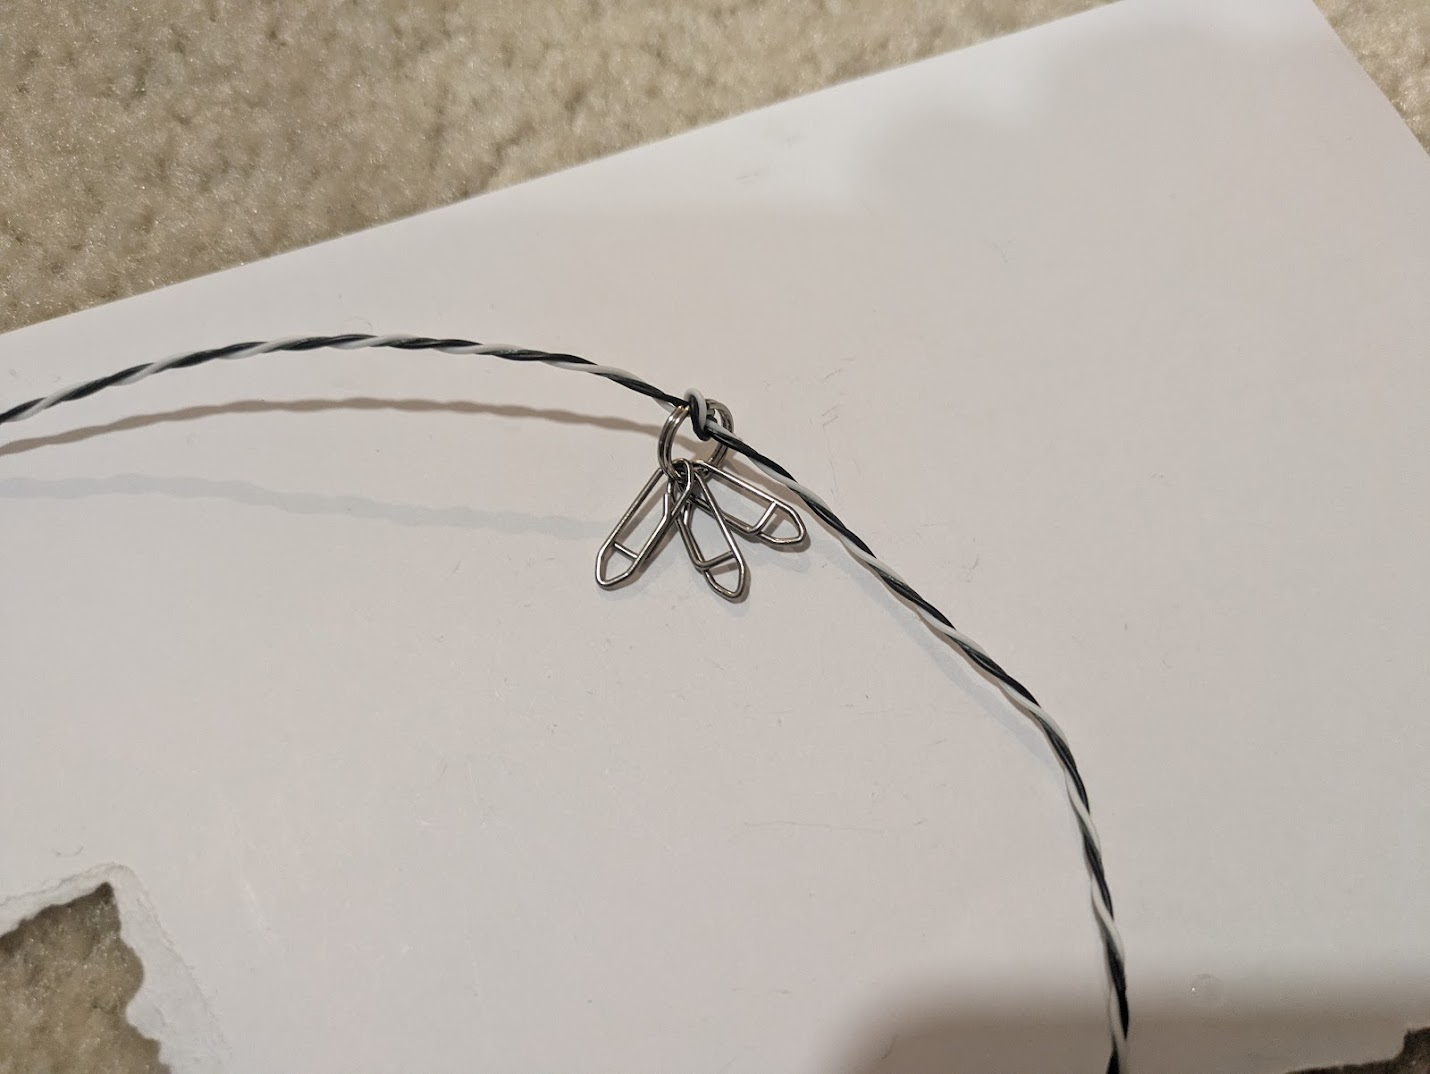
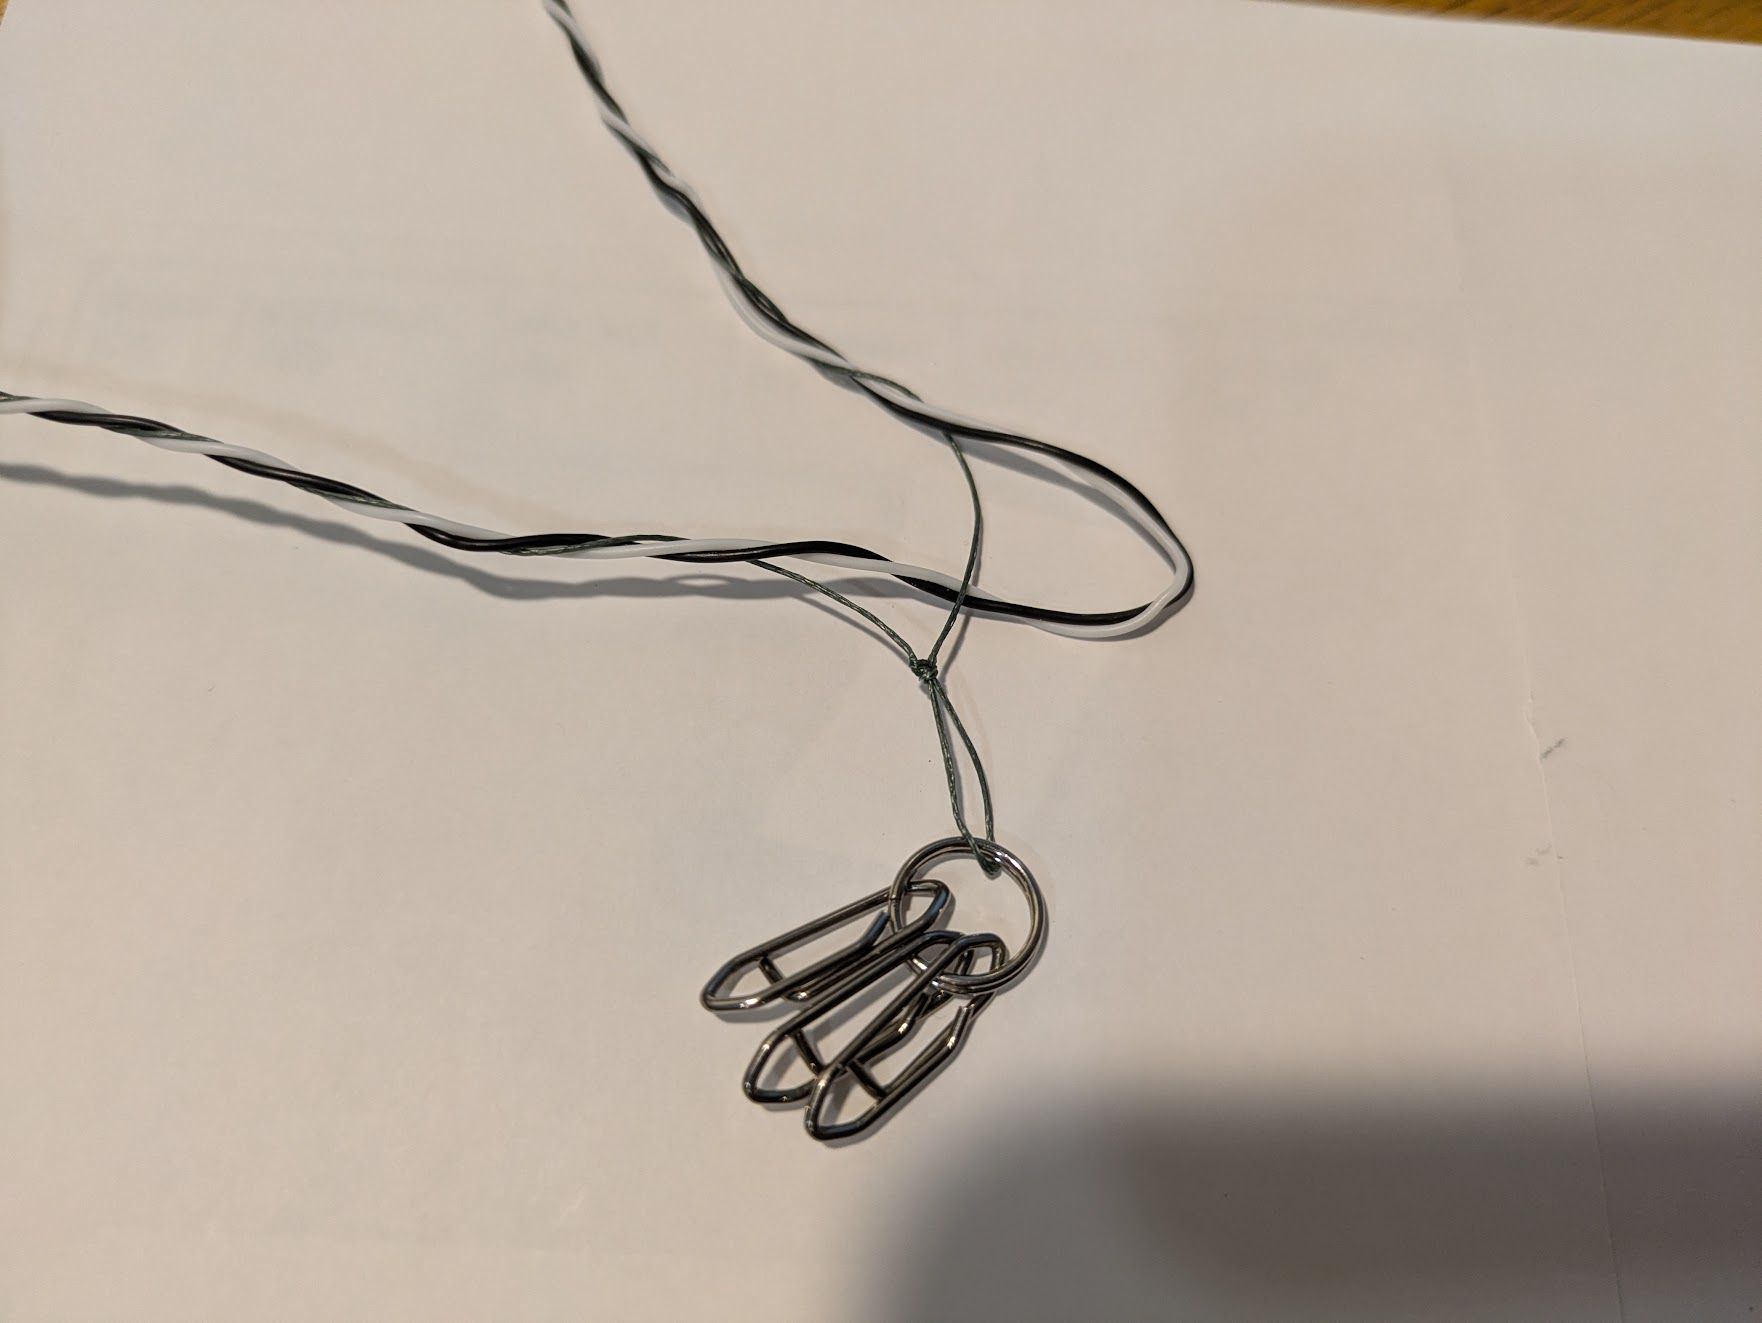
power line knots

diff --git a/docs/power_line_build_guide.md b/docs/power_line_build_guide.md
@@ -59,9 +59,13 @@ TODO: add image.
 You were supplied with a custom made counter-twisted wire consisting of two 30awg conductors and some 40lb test braided fishing line.
 Lay it out flat on the floor and gently shake loose any twists or kinks.
 
-Thread 2 meters of your power wire through the 10mm keyring. This should leave 8 meters on the other end. Thread the short end through the keyring again, and gently knot it so the keyring is secured at the 2 meter mark.
+Measure 2 meters from one end and mark the point. Pull apart the fishing line from the wires at this point to make about 10cm of slack.
+Tie an [alpine butterfly](https://www.animatedknots.com/alpine-butterfly-loop-knot) in the fishing line at this location. You can use the plastic screwdriver as an aid when tying the knot. This is a difficult knot, I suggest practicing first on some scrap fishing line. If you haven't bought the cross locking tweezers yet, surely this will change your mind.
 
 ![](images/gantry/image6.png){ loading=lazy, width=45% }
+
+After you pull the knot tight, You should have a small immobile loop in the fishing line and slightly slack wires. Attach the keyring to this loop. This way, the fishing line can bear all the weight, and the wires not be stressed.
+
 ![](images/gantry/image7.png){ loading=lazy, width=45% }
 
 Thread the 2m end of power line down through the center hole of the gantry. Pull it through till the keyring gets stopped in the cone, and then thread the 8m end out through one of the side holes.

diff --git a/docs/anchor_build_guide.md b/docs/anchor_build_guide.md
@@ -11,7 +11,7 @@ First you should have printed the parts according to the [print guide](print_gui
 
  - [Mini screwdriver with a bit set](https://www.amazon.com/dp/B01KB02F9C)  
  - Soldering station
- - [Cross locking tweezers](https://www.amazon.com/dp/B001BU9MLG)  
+ - [Cross locking tweezers](https://www.amazon.com/dp/B001BU9MLG) *Mandatory* you'll jump off a bridge without them.  
  - [Mini side cutters](https://www.amazon.com/dp/B00FZPDG1K)  
  - Super glue ([loctite super glue “professional liquid”](https://www.amazon.com/dp/B07VL6MP94?ref_=ppx_hzsearch_conn_dt_b_fed_asin_title_1&th=1) recommended)
 
@@ -195,5 +195,3 @@ Assembly is complete\!
 Plug in your unit to 24v power and confirm both the motor control screen and raspi green light are on.  
 (Do not run motor calibration, it has been done already and can only be done with a bare shaft)  
 Proceed with all the raspberry pi software setup now before continuing with the rest of the physical installation.
-
-![](images/ag/image29.png){ loading=lazy, width=45% }
